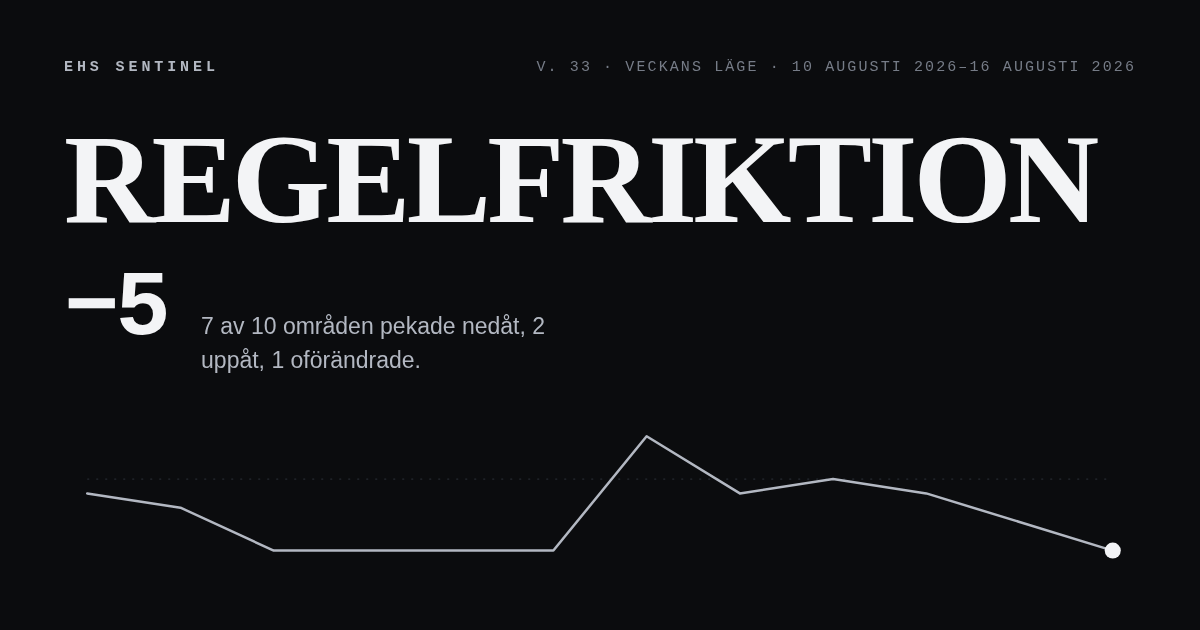
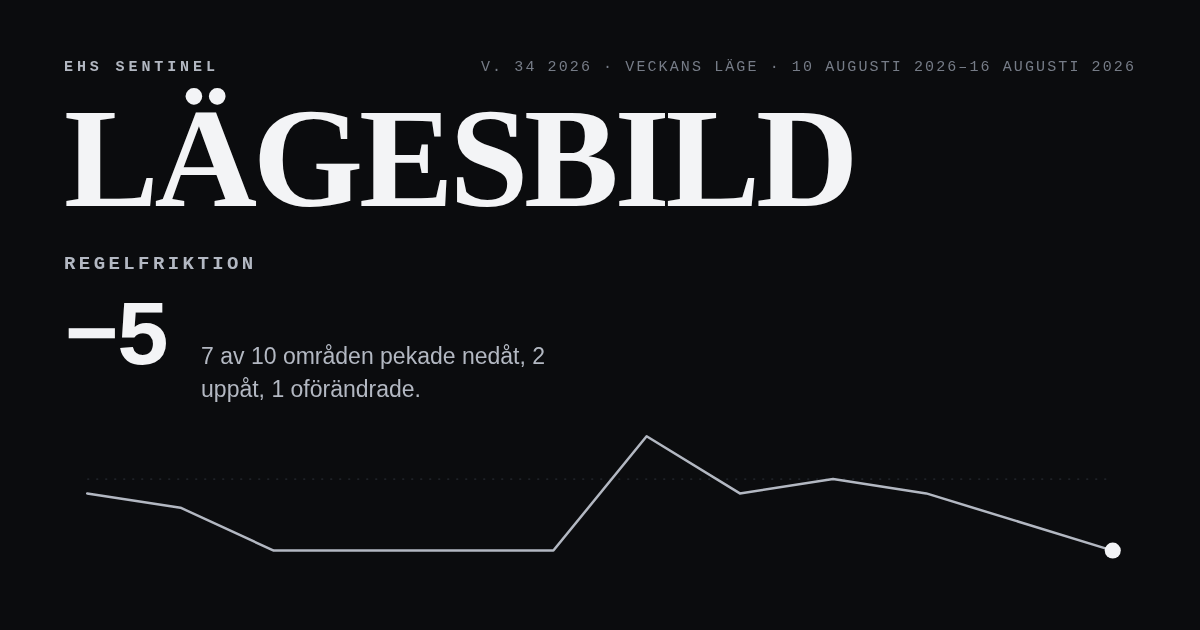
Nytt hero-ord: Lagesbild / Situational Awareness, regimetikett till egen rad

Changed region(s): [[0.0617, 0.1206, 0.925, 0.3619], [0.0617, 0.3921, 0.4317, 0.6333], [0.4317, 0.0905, 0.4933, 0.1206]]

diff --git a/index.html b/index.html
@@ -2,7 +2,7 @@
 <html lang="en" data-lang="en">
 <head>
 <link rel="icon" type="image/svg+xml" href="./favicon.svg" />
-    <meta charset="utf-8">
+<meta charset="utf-8">
 <meta name="viewport" content="width=device-width,initial-scale=1">
 <!-- Relativ bas med avsikt: SAMMA katalog (publik-dist-v2) serveras under mer
      än en deploy-slug (skarpa ehs-sentinel och förhandsvisningen
@@ -131,6 +131,12 @@ section[id],footer[id]{scroll-margin-top:calc(var(--navh) + 20px)}
   font-size:min(7.4rem, calc((min(1180px, 100vw) - var(--pad)) * 0.97 / var(--em)));
   line-height:1.02;letter-spacing:-.025em;display:block;padding-bottom:.06em;
   color:var(--ink)}
+/* Veckans regimetikett: liten, diskret rad direkt över talet och skalan
+   (beslut Erik 17 aug 2026 — heroens stora ord är fast, etiketten flyttad hit).
+   Monospacevokabuläret från .kicker/.topweek, dämpad benvit. D3 gäller här
+   likaväl: ALDRIG larmfärg — rött/gult/grönt tillhör signalområdena. */
+.hero-regim{font-family:var(--fm);font-size:.72rem;font-weight:600;letter-spacing:.16em;
+  text-transform:uppercase;color:var(--ink-2);margin-top:16px;display:block}
 .hero-figs{display:flex;align-items:flex-end;flex-wrap:wrap;gap:14px 30px;margin-top:10px}
 /* D3: talet i monospace, gråskala, intill den synliga skalan */
 .hero-num{font-family:var(--fm);font-weight:600;font-size:clamp(2.4rem,7.5vw,4.4rem);
@@ -516,7 +522,7 @@ a{transition:color 150ms ease,text-decoration-color 150ms ease}
     <span class="topbar-id rise" style="--d:0ms">
       <span class="wordmark">EHS Sentinel</span>
       <span class="topsep" aria-hidden="true">·</span>
-      <span class="topweek"><span class="l-sv">V. 33 2026</span><span class="l-en">W33 2026</span></span>
+      <span class="topweek"><span class="l-sv">V. 34 2026</span><span class="l-en">W34 2026</span></span>
     </span>
     <div class="lang" role="group" aria-label="Language">
       <button type="button" data-set="sv">SV</button>
@@ -539,7 +545,8 @@ a{transition:color 150ms ease,text-decoration-color 150ms ease}
     <div class="wrap hero-inner">
       <p class="varde rise" style="--d:200ms"><span class="l-sv"><span class="varde-1">Veckans EHS-läge i Sverige och EU, läst på två minuter.</span> <span class="varde-2">Alla källor, varje måndag, fritt.</span></span><span class="l-en"><span class="varde-1">This week's EHS position in Sweden and the EU, read in two minutes.</span> <span class="varde-2">All sources, every Monday, free.</span></span></p>
       <div class="hero-mid">
-        <span class="hero-word rise l-sv" style="--d:400ms;--em:8.2322">Regelfriktion</span><span class="hero-word rise l-en" style="--d:400ms;--em:6.7902">Regulatory Friction</span>
+        <span class="hero-word rise l-sv" style="--d:400ms;--em:5.6106">Lägesbild</span><span class="hero-word rise l-en" style="--d:400ms;--em:6.6528">Situational Awareness</span>
+        <div class="hero-regim rise" style="--d:500ms"><span class="l-sv">Regelfriktion</span><span class="l-en">Regulatory Friction</span></div>
         <div class="hero-figs rise" style="--d:560ms">
           <div class="hero-num" data-tal="-5" data-text="−5">−5</div>
           <div class="skala">

diff --git a/tack.html b/tack.html
@@ -111,6 +111,12 @@ section[id],footer[id]{scroll-margin-top:calc(var(--navh) + 20px)}
   font-size:min(7.4rem, calc((min(1180px, 100vw) - var(--pad)) * 0.97 / var(--em)));
   line-height:1.02;letter-spacing:-.025em;display:block;padding-bottom:.06em;
   color:var(--ink)}
+/* Veckans regimetikett: liten, diskret rad direkt över talet och skalan
+   (beslut Erik 17 aug 2026 — heroens stora ord är fast, etiketten flyttad hit).
+   Monospacevokabuläret från .kicker/.topweek, dämpad benvit. D3 gäller här
+   likaväl: ALDRIG larmfärg — rött/gult/grönt tillhör signalområdena. */
+.hero-regim{font-family:var(--fm);font-size:.72rem;font-weight:600;letter-spacing:.16em;
+  text-transform:uppercase;color:var(--ink-2);margin-top:16px;display:block}
 .hero-figs{display:flex;align-items:flex-end;flex-wrap:wrap;gap:14px 30px;margin-top:10px}
 /* D3: talet i monospace, gråskala, intill den synliga skalan */
 .hero-num{font-family:var(--fm);font-weight:600;font-size:clamp(2.4rem,7.5vw,4.4rem);
